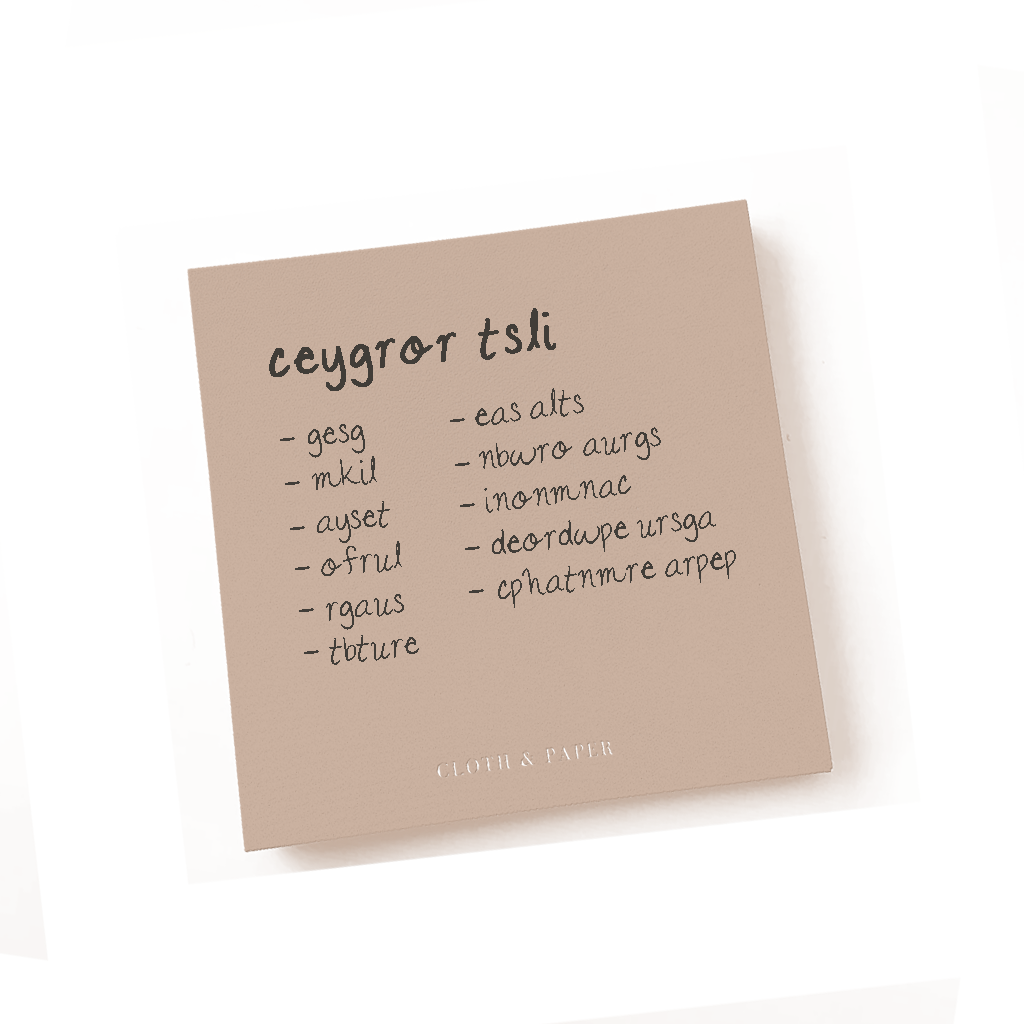
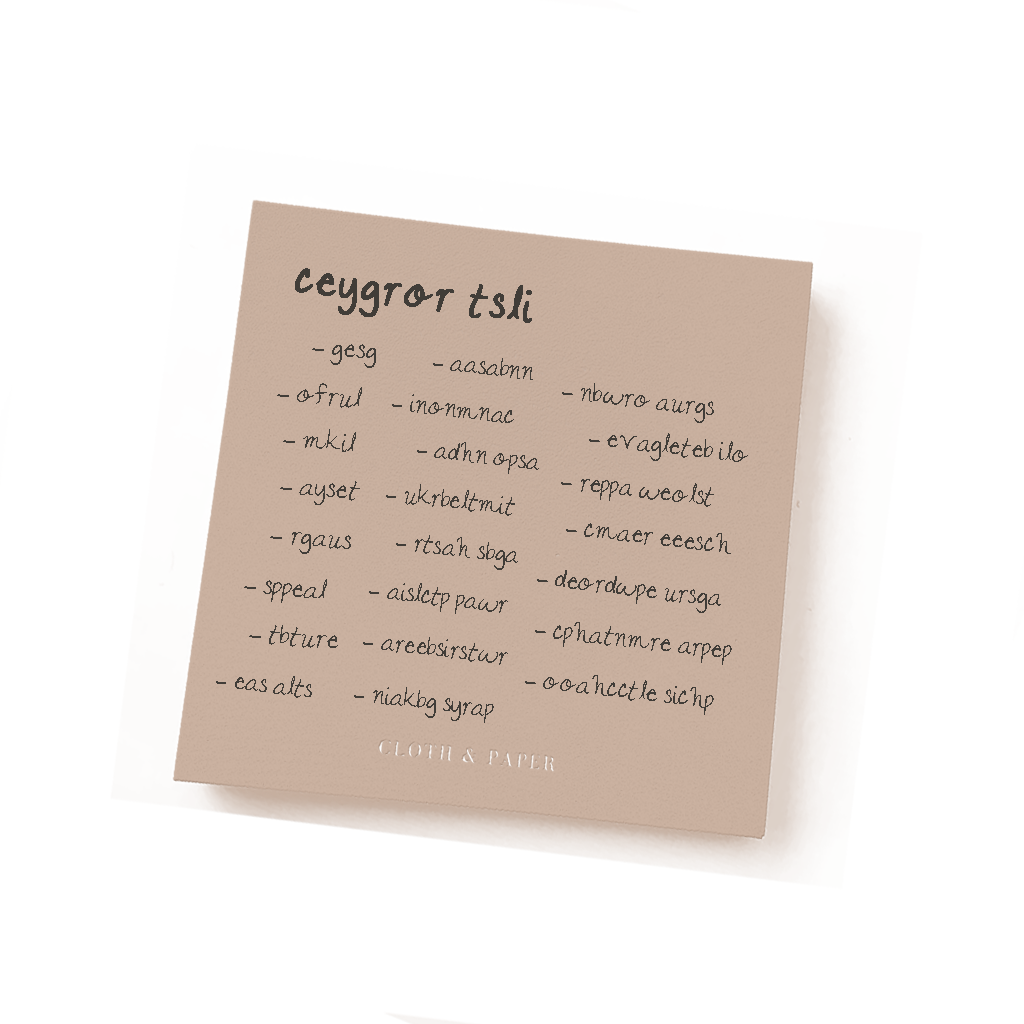
new puzzles

diff --git a/aevph/signs.html b/aevph/signs.html
@@ -15,7 +15,7 @@
     <!-- meta character set -->
     <meta charset="UTF-8">
     <!-- Site Title -->
-    <title>Maze</title>
+    <title>Park Street station</title>
     <!-- CSS -->
     <link rel="stylesheet" href="../css/linearicons.css">
     <link rel="stylesheet" href="../css/font-awesome.min.css">
@@ -29,22 +29,22 @@
         </div>
         <div class="form top">
             <form>
-                <input placeholder="Which room is Anisa in?" id="pswd" class="box">
+                <input placeholder="Which way do we go from here?" id="pswd" class="box">
                 <input class="confirm" id="submitButton" type="button" value="&#9654;" />
             </form>
         </div>
-        <div class="image-overlay">
-            <img src="maze.png">
+        <div class="image-overlay wide">
+            <img src="signs.png">
         </div>
-        <div class="aeva-button">
-            <img src="aeva-neutral.png">
-        </div>
-        <div class="full">
-        </div>
+    <div class="aeva-button">
+        <img src="aeva-neutral.png">
+    </div>
+    <div class="full">
+    </div>
     </div>
     <script src="./jquery-3.3.1.min.js"></script>
     <script src="./puzzles.js"></script>
-    <script src="./maze.js"></script>
+    <script src="./signs.js"></script>
 </body>
 
 </html>

diff --git a/aevph/map.html b/aevph/map.html
@@ -15,7 +15,7 @@
     <!-- meta character set -->
     <meta charset="UTF-8">
     <!-- Site Title -->
-    <title>Maze</title>
+    <title>The great outside</title>
     <!-- CSS -->
     <link rel="stylesheet" href="../css/linearicons.css">
     <link rel="stylesheet" href="../css/font-awesome.min.css">
@@ -29,22 +29,22 @@
         </div>
         <div class="form top">
             <form>
-                <input placeholder="Which room is Anisa in?" id="pswd" class="box">
+                <input placeholder="Which street do we go to?" id="pswd" class="box">
                 <input class="confirm" id="submitButton" type="button" value="&#9654;" />
             </form>
         </div>
-        <div class="image-overlay">
-            <img src="maze.png">
+        <div class="image-overlay wide">
+            <img src="map.png">
         </div>
-        <div class="aeva-button">
-            <img src="aeva-neutral.png">
-        </div>
-        <div class="full">
-        </div>
+    <div class="aeva-button">
+        <img src="aeva-neutral.png">
+    </div>
+    <div class="full">
+    </div>
     </div>
     <script src="./jquery-3.3.1.min.js"></script>
     <script src="./puzzles.js"></script>
-    <script src="./maze.js"></script>
+    <script src="./map.js"></script>
 </body>
 
 </html>

diff --git a/aevph/map.js b/aevph/map.js
@@ -1,0 +1,21 @@
+var $aevaMap  = $("<div class='aeva-full'><div class='aeva-message'><div class='aeva-message-text'><p>Alright, we're getting closer. But downton Boston is huge! Anisa could've gone anywhere from here.</div><img src='aeva-smile.png'></div></div>");
+
+var $aevaMapHint = $('<div class="aeva-full"><div class="aeva-message"><div class="aeva-message-text"><p>Do you still have the <a href="./codenames.png" target="blank">invitation</a> from earlier? Remember the answer and see if that helps you here! To find the particular street name, look up "Park Street" on Google Maps and try to line it up with this one!</div><img src="aeva-help.png"></div></div>');
+
+
+$(document).ready(function() {
+    $aevaMap.appendTo('.full');
+});
+
+$('.full').on('click', function() {
+    if ($aevaMap) {
+        $aevaMap.remove();
+    }
+    if ($aevaMapHint) {
+        $aevaMapHint.remove();
+    }
+});
+
+$('.aeva-button').on('click', function() {
+    $aevaMapHint.appendTo('.full');
+});

diff --git a/aevph/signs.js b/aevph/signs.js
@@ -1,0 +1,22 @@
+var $aevaSigns  = $("<div class='aeva-full'><div class='aeva-message'><div class='aeva-message-text'><p>So you took the T to Park Street. But as you know, it's impossible to find your way out without following the signs - unless you're a local. But how do we know which way Anisa went?</div><img src='aeva-smile.png'></div></div>");
+
+var $aevaSignsHint = $('<div class="aeva-full"><div class="aeva-message"><div class="aeva-message-text"><p>Do you still have the <a href="./codenames.png" target="blank">invitation</a> from earlier? Remember the answer and see if that helps you here!</div><img src="aeva-help.png"></div></div>');
+
+
+$(document).ready(function() {
+    $aevaSigns.appendTo('.full');
+});
+
+$('.full').on('click', function() {
+    if ($aevaSigns) {
+        $aevaSigns.remove();
+    }
+    if ($aevaSignsHint) {
+        $aevaSignsHint.remove();
+    }
+});
+
+$('.aeva-button').on('click', function() {
+    $aevaSignsHint.appendTo('.full');
+});
+

diff --git a/aevph/puzzles.css b/aevph/puzzles.css
@@ -452,8 +452,8 @@ button.floor {
 }
 
 .aeva-full .aeva-message {
-    width: 70%;
-    margin: 5% 15%;
+    width: 60%;
+    margin: 5% 20%;
     background: #E9ECEC;
     position: relative;
     border-radius: 10px;
@@ -494,6 +494,11 @@ button.floor {
 
     .message-container.snap {
         width: 80%;
+    }
+
+    .aeva-full .aeva-message img {
+        right: -5%;
+        width: 5em;
     }
 
 }
@@ -548,6 +553,15 @@ button.floor {
         margin: 5% 15%;
     }
 
+    .aeva-full .aeva-message {
+        width: 70%;
+        margin: 5% 15%;
+    }
+
+    .aeva-full .aeva-message .aeva-message-text {
+        font-size: 1em;
+    }
+
 }
 
 @media only screen and (max-width: 500px) {
@@ -578,6 +592,11 @@ button.floor {
 
     body {
         font-size: 3vw !important;
+    }
+
+    .aeva-full .aeva-message {
+        width: 80%;
+        margin: 5% 10%;
     }
 
 }

diff --git a/aevph/puzzles.js b/aevph/puzzles.js
@@ -182,10 +182,16 @@ function checkPswd() {
         case ('park'):
         case ('parkst'):
         case ('parkstreet'):
-            let parkNote = confirm("Alright, so we're out of the Park Street station. But how are we supposed to know where to go from here?? Anisa could be anywhere!");
-            if (parkNote) {
-                window.location = "street.html";
-            }
+            window.location = "signs.html";
+            break;
+        case ('down'):
+        case ('godown'):
+            window.location = "map.html";
+            break;
+        case ('west'):
+        case ('westst'):
+        case ('weststreet'):
+            window.location = "street.html";
             break;
         case ('1582a'):
             window.location = "outro.html";

diff --git a/aevph/floorfinder.html b/aevph/floorfinder.html
@@ -25,7 +25,7 @@
 <body>
     <div class="screen">
         <div class="header-container">
-            <i class="fa fa-home back-button" aria-hidden="true" onclick="backToSocials()"></i>
+            <i class="fa fa-home back-button" aria-hidden="true" onclick="goBack()"></i>
         </div>
         <div class="header-container">
             <button class="floor" onclick="checkFF()">check answer</button>

diff --git a/aevph/inside.html b/aevph/inside.html
@@ -25,7 +25,7 @@
 <body>
     <div class="screen">
         <div class="header-container">
-            <i class="fa fa-home back-button" aria-hidden="true" onclick="backToSocials()"></i>
+            <i class="fa fa-home back-button" aria-hidden="true" onclick="goBack()"></i>
         </div>
         <div class="form top">
             <form>
